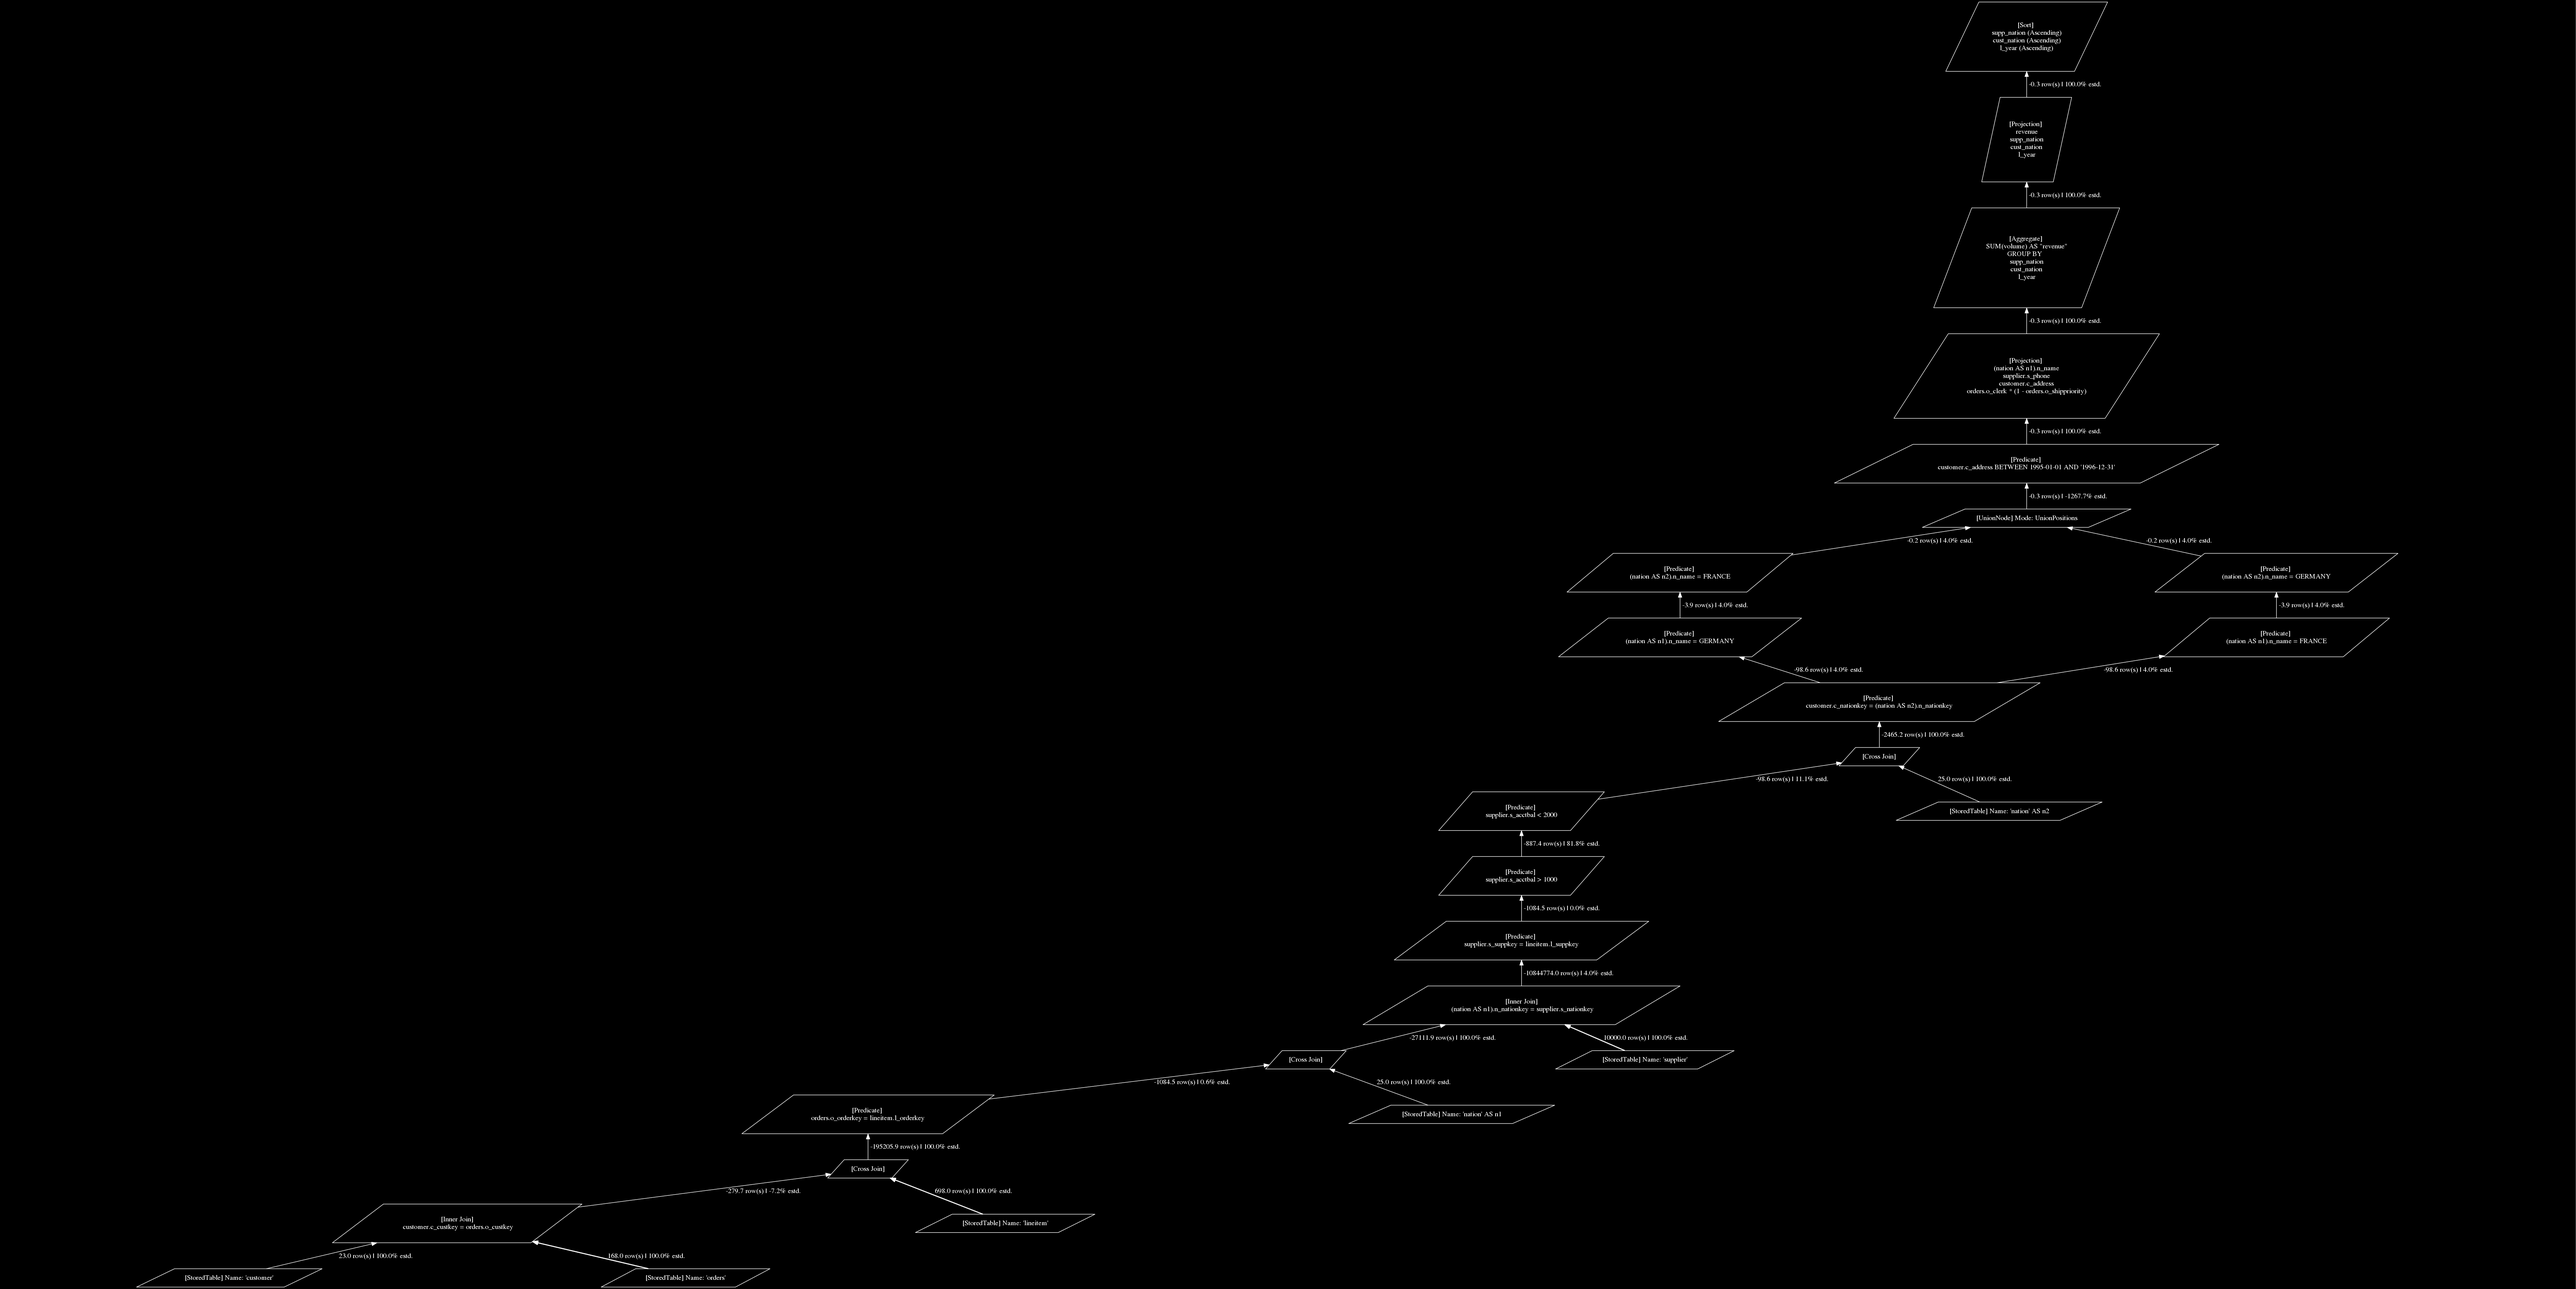
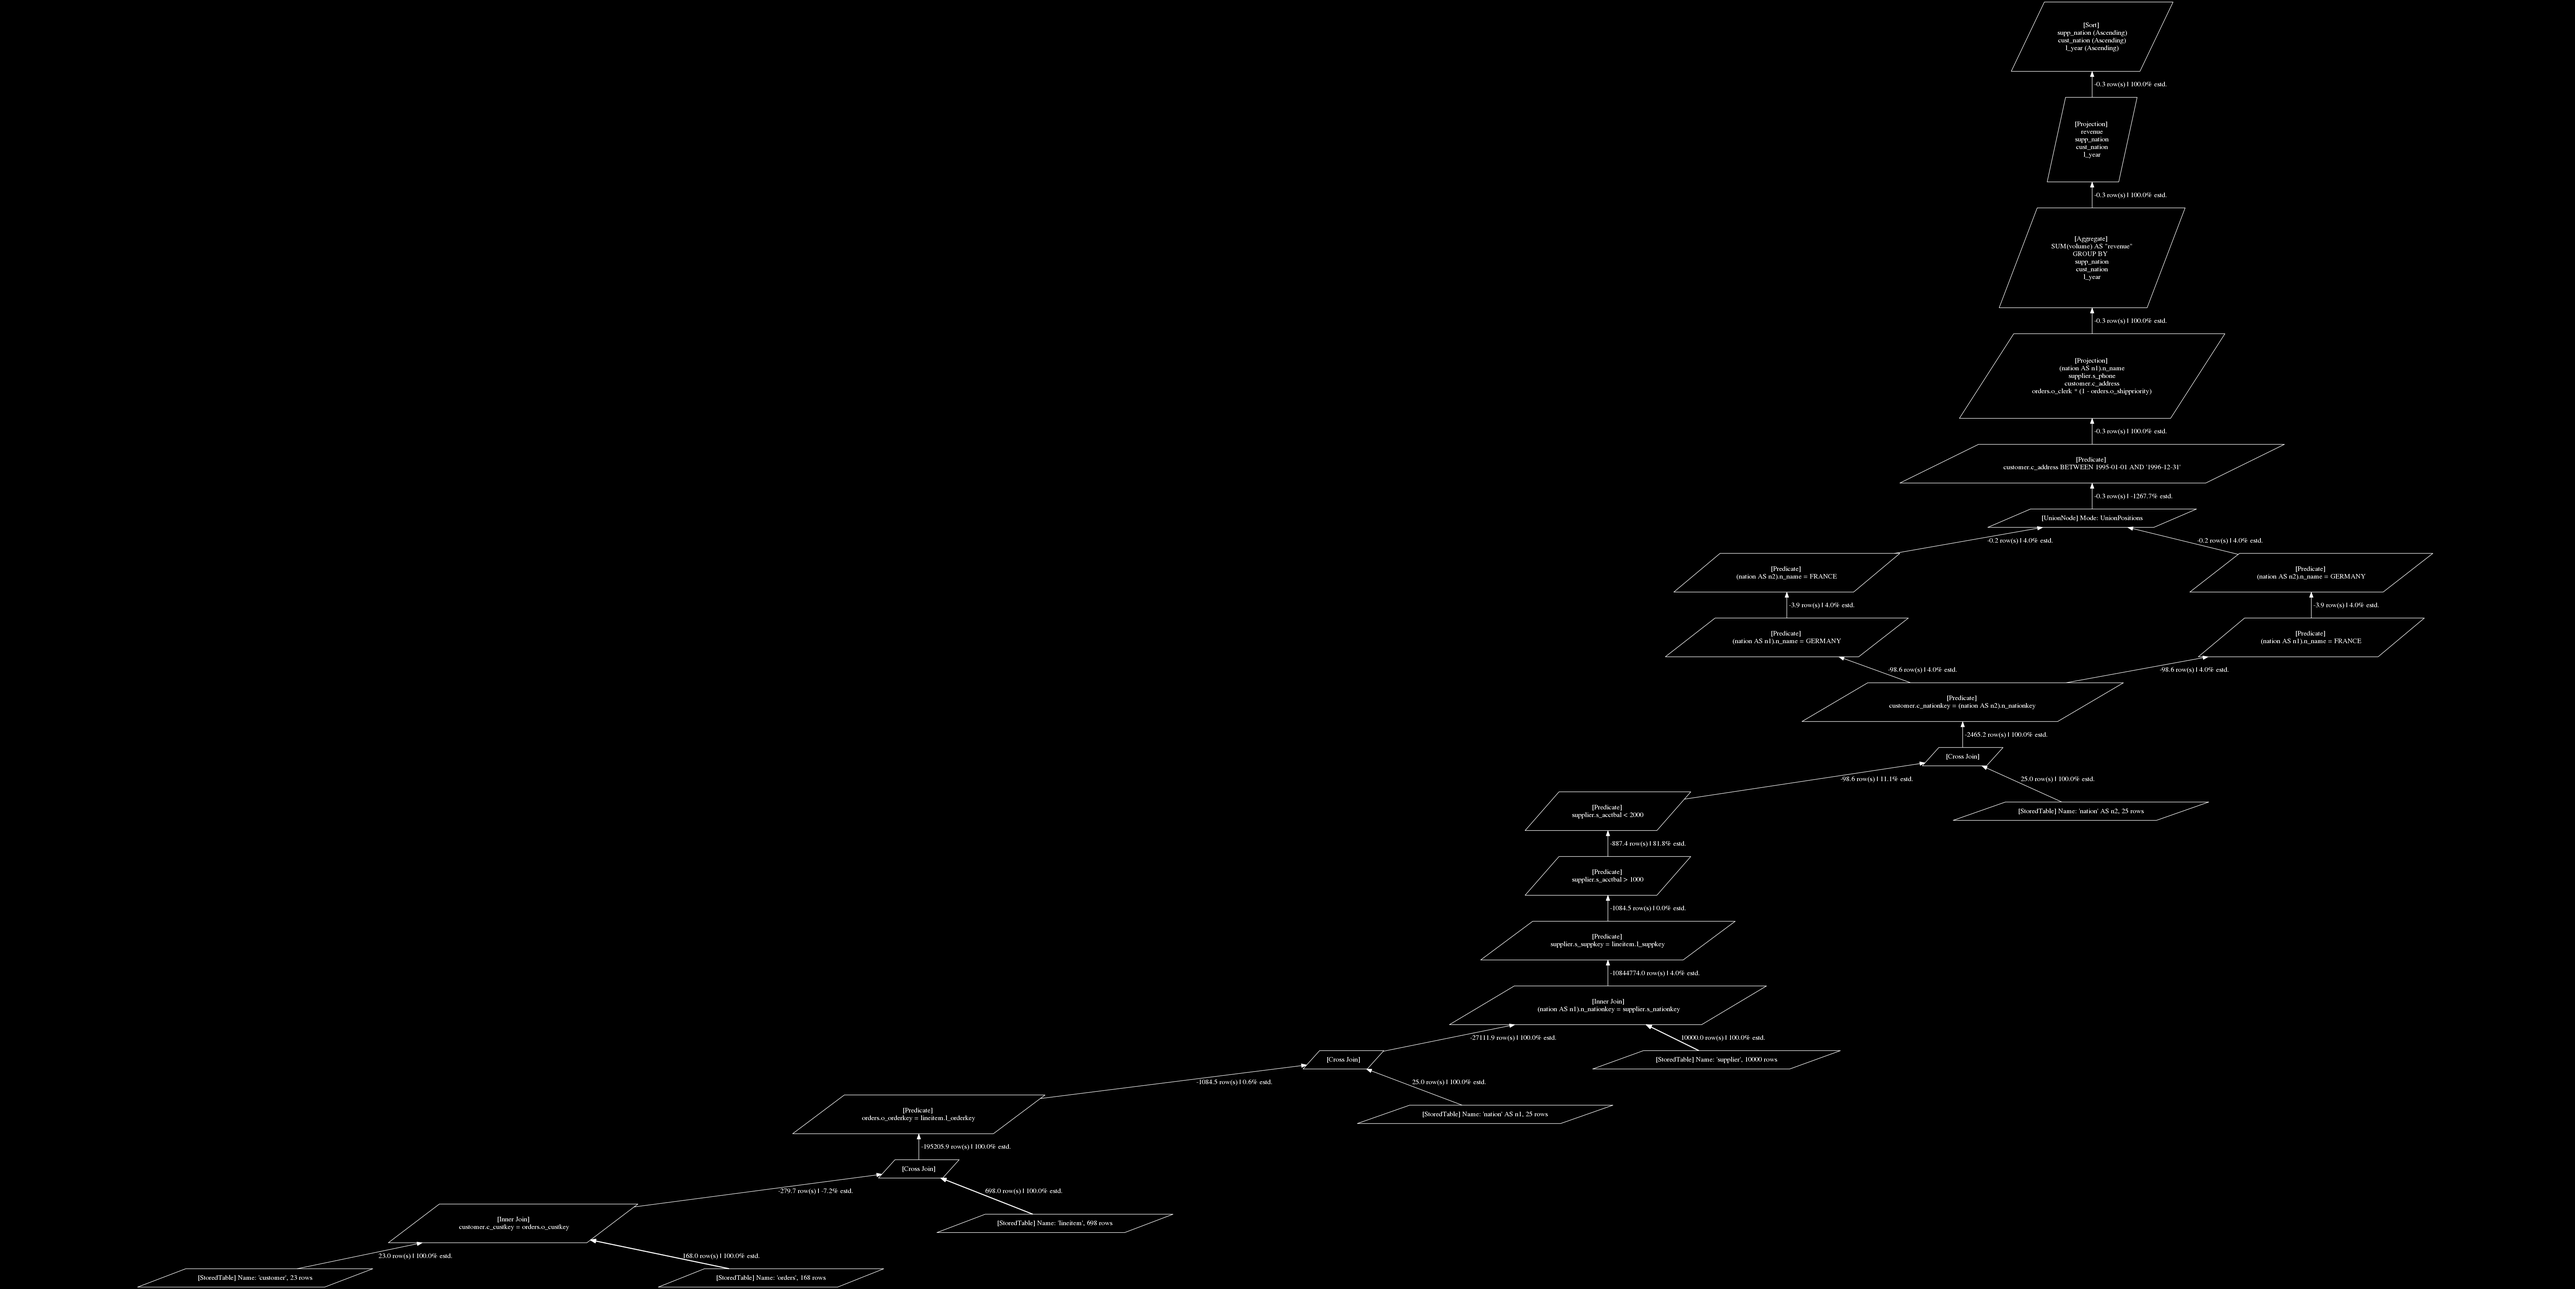
row count in description of StoredTableNode

diff --git a/src/lib/optimizer/abstract_syntax_tree/stored_table_node.cpp b/src/lib/optimizer/abstract_syntax_tree/stored_table_node.cpp
@@ -30,6 +30,9 @@ std::string StoredTableNode::description(DescriptionMode mode) const {
     desc += " AS " + *_table_alias;
   }
 
+  auto table = StorageManager::get().get_table(_table_name);
+  desc += ", " + std::to_string(table->row_count()) + " rows";
+
   return desc;
 }
 
